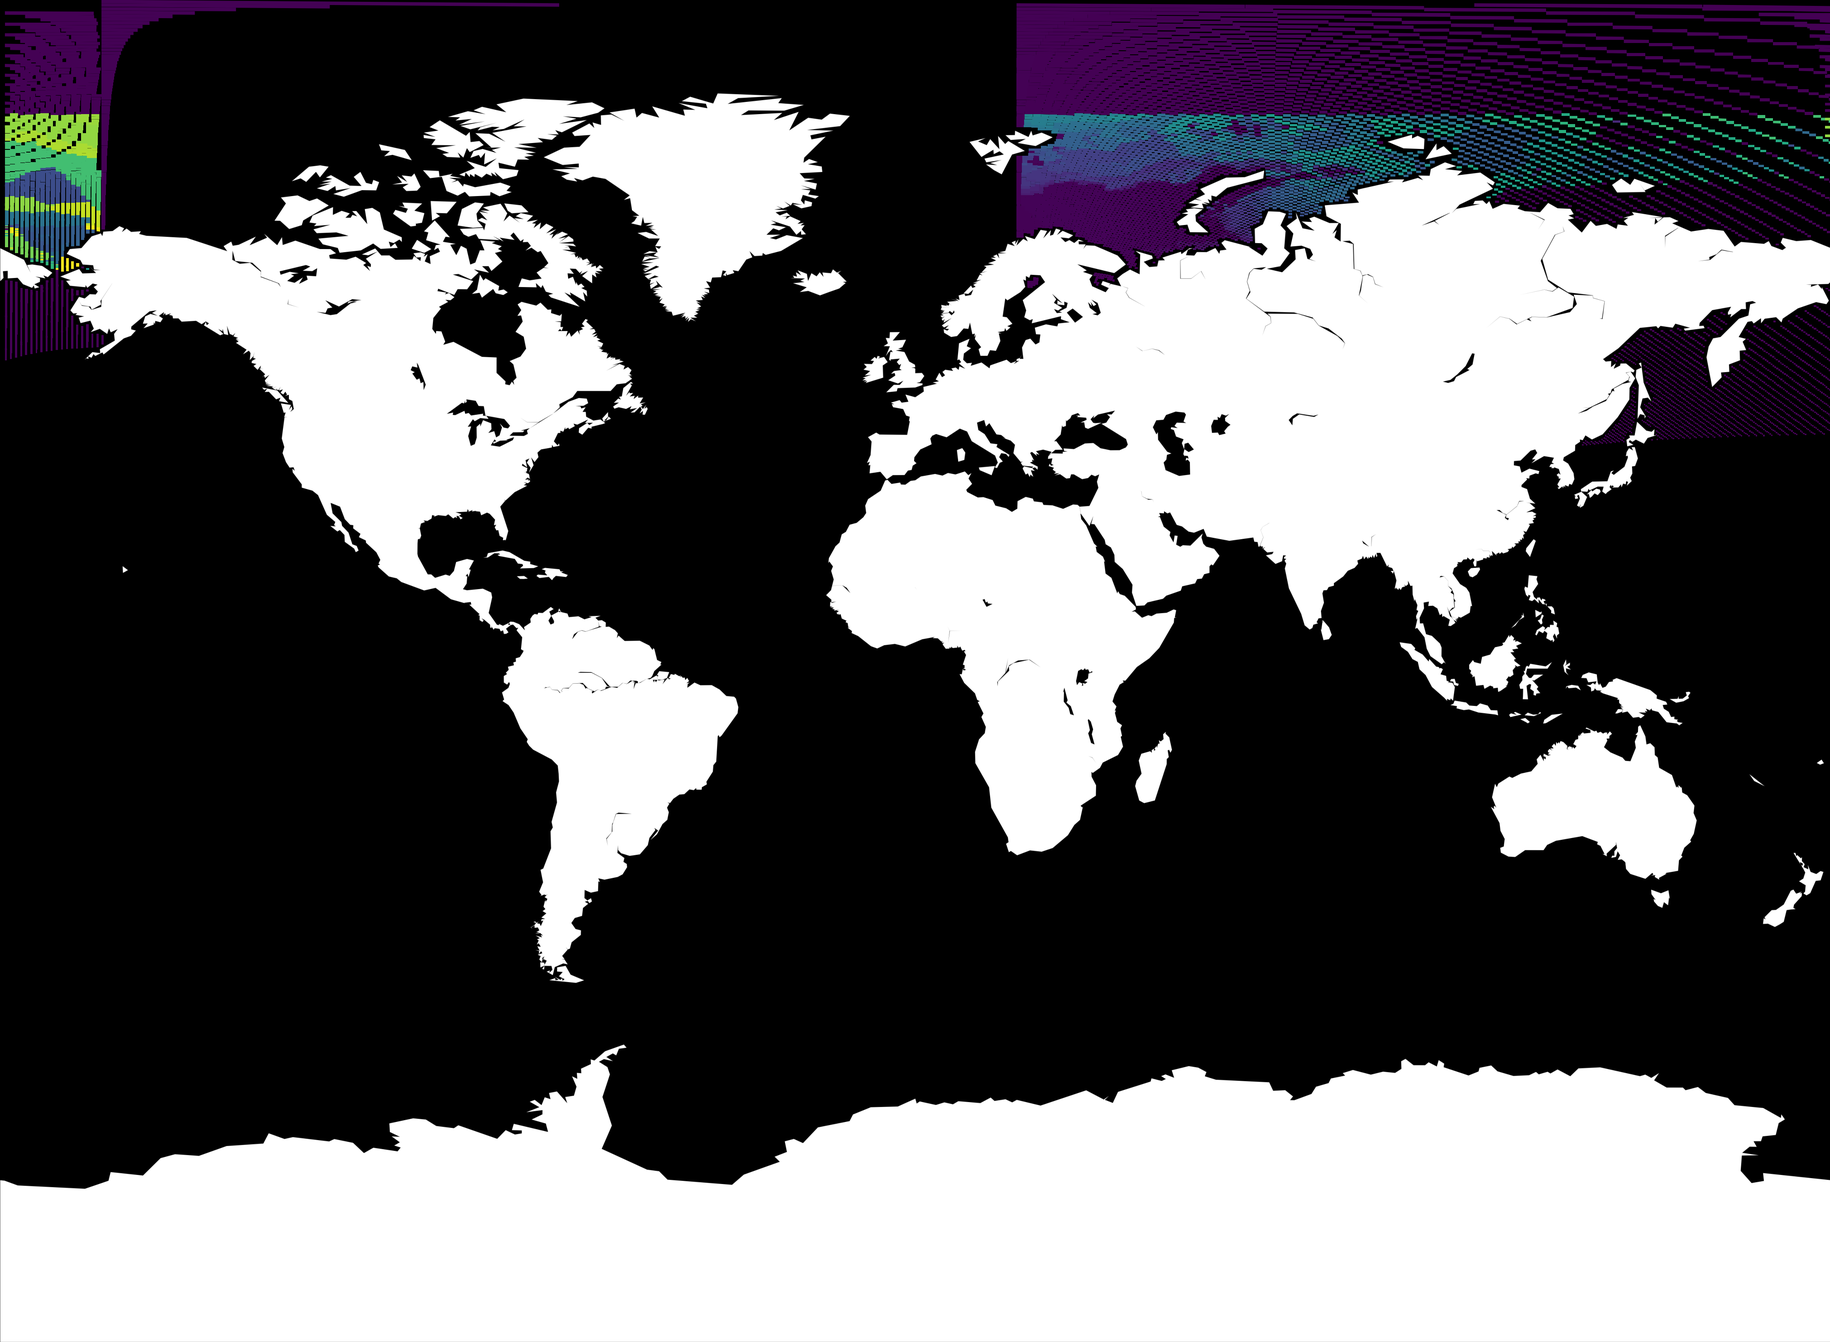
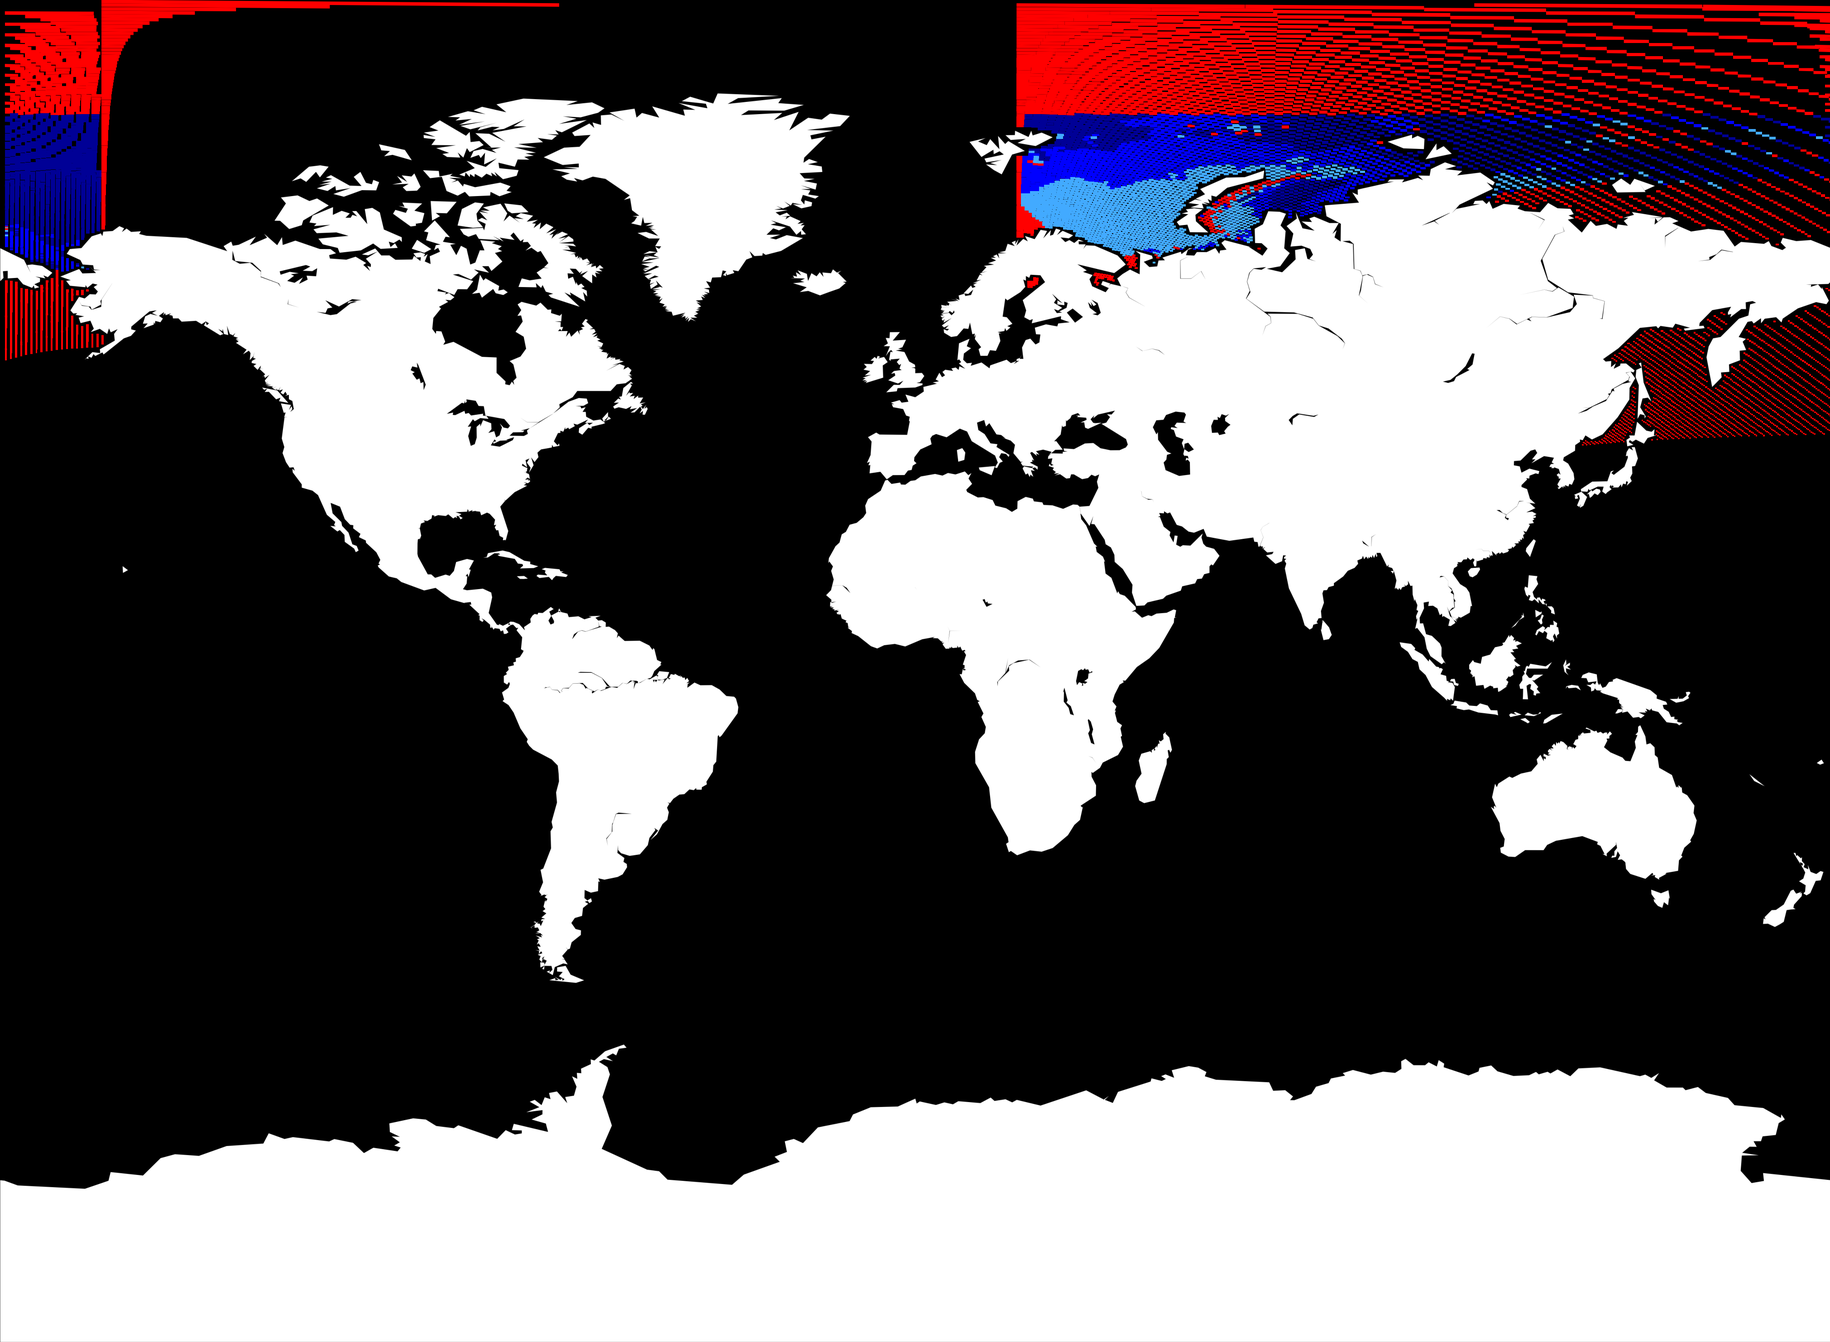
time function

Changed region(s): [[0.5299, 0.0, 1.0, 0.2173], [0.0, 0.0, 0.187, 0.2794], [0.8728, 0.2483, 1.0, 0.3414]]

diff --git a/path_map.html b/path_map.html
@@ -25,7 +25,7 @@
             <meta name="viewport" content="width=device-width,
                 initial-scale=1.0, maximum-scale=1.0, user-scalable=no" />
             <style>
-                #map_b551f9600163676150c063a4c02b4edb {
+                #map_69596ba5e96e551ad804e7a785b2b48c {
                     position: relative;
                     width: 100.0%;
                     height: 100.0%;
@@ -39,14 +39,14 @@
 <body>
     
     
-            <div class="folium-map" id="map_b551f9600163676150c063a4c02b4edb" ></div>
+            <div class="folium-map" id="map_69596ba5e96e551ad804e7a785b2b48c" ></div>
         
 </body>
 <script>
     
     
-            var map_b551f9600163676150c063a4c02b4edb = L.map(
-                "map_b551f9600163676150c063a4c02b4edb",
+            var map_69596ba5e96e551ad804e7a785b2b48c = L.map(
+                "map_69596ba5e96e551ad804e7a785b2b48c",
                 {
                     center: [25.0, 25.0],
                     crs: L.CRS.EPSG3857,
@@ -60,61 +60,61 @@
 
         
     
-            var tile_layer_a61ec7089220ae052e6c1bd06790464b = L.tileLayer(
+            var tile_layer_4994f5b70a4d8a4efcd916d006ec2b7c = L.tileLayer(
                 "https://tile.openstreetmap.org/{z}/{x}/{y}.png",
                 {"attribution": "\u0026copy; \u003ca href=\"https://www.openstreetmap.org/copyright\"\u003eOpenStreetMap\u003c/a\u003e contributors", "detectRetina": false, "maxNativeZoom": 19, "maxZoom": 19, "minZoom": 0, "noWrap": false, "opacity": 1, "subdomains": "abc", "tms": false}
             );
         
     
-            tile_layer_a61ec7089220ae052e6c1bd06790464b.addTo(map_b551f9600163676150c063a4c02b4edb);
+            tile_layer_4994f5b70a4d8a4efcd916d006ec2b7c.addTo(map_69596ba5e96e551ad804e7a785b2b48c);
         
     
-            var marker_5aa53e140cb297d79710b801ed8cce87 = L.marker(
+            var marker_d9f3e03465850cf355f59d4542504f69 = L.marker(
                 [67.64268, 42.20947],
                 {}
-            ).addTo(map_b551f9600163676150c063a4c02b4edb);
+            ).addTo(map_69596ba5e96e551ad804e7a785b2b48c);
         
     
-        var popup_6c4e75df1da38e236a86f1ce97f262da = L.popup({"maxWidth": "100%"});
+        var popup_cbfc15d2dff26e96a4e216100691ea71 = L.popup({"maxWidth": "100%"});
 
         
             
-                var html_cf3c0fe819b38d99dd31d766304b2f51 = $(`<div id="html_cf3c0fe819b38d99dd31d766304b2f51" style="width: 100.0%; height: 100.0%;">Start Point</div>`)[0];
-                popup_6c4e75df1da38e236a86f1ce97f262da.setContent(html_cf3c0fe819b38d99dd31d766304b2f51);
+                var html_ae148e956efe6db1ff88ccb4b06ac011 = $(`<div id="html_ae148e956efe6db1ff88ccb4b06ac011" style="width: 100.0%; height: 100.0%;">Start Point</div>`)[0];
+                popup_cbfc15d2dff26e96a4e216100691ea71.setContent(html_ae148e956efe6db1ff88ccb4b06ac011);
             
         
 
-        marker_5aa53e140cb297d79710b801ed8cce87.bindPopup(popup_6c4e75df1da38e236a86f1ce97f262da)
+        marker_d9f3e03465850cf355f59d4542504f69.bindPopup(popup_cbfc15d2dff26e96a4e216100691ea71)
         ;
 
         
     
     
-            var marker_129b367769a4e9577b43adc057b19f42 = L.marker(
-                [55.7, 164.25],
+            var marker_c48bfd13b034e6f0cf3dbb2945f3e126 = L.marker(
+                [72.1818, 73.91602],
                 {}
-            ).addTo(map_b551f9600163676150c063a4c02b4edb);
+            ).addTo(map_69596ba5e96e551ad804e7a785b2b48c);
         
     
-        var popup_a4b132c33f46e8df34c493145b116ad9 = L.popup({"maxWidth": "100%"});
+        var popup_a7095e36c855e569e0873f927a207c43 = L.popup({"maxWidth": "100%"});
 
         
             
-                var html_f5222e621d767c8dbda0d7d596dd27cc = $(`<div id="html_f5222e621d767c8dbda0d7d596dd27cc" style="width: 100.0%; height: 100.0%;">End Point</div>`)[0];
-                popup_a4b132c33f46e8df34c493145b116ad9.setContent(html_f5222e621d767c8dbda0d7d596dd27cc);
+                var html_86f9c0daa817414398c94c72f4f9feab = $(`<div id="html_86f9c0daa817414398c94c72f4f9feab" style="width: 100.0%; height: 100.0%;">End Point</div>`)[0];
+                popup_a7095e36c855e569e0873f927a207c43.setContent(html_86f9c0daa817414398c94c72f4f9feab);
             
         
 
-        marker_129b367769a4e9577b43adc057b19f42.bindPopup(popup_a4b132c33f46e8df34c493145b116ad9)
+        marker_c48bfd13b034e6f0cf3dbb2945f3e126.bindPopup(popup_a7095e36c855e569e0873f927a207c43)
         ;
 
         
     
     
-            var poly_line_fe6f57a6d1909e0807a49b302ad2a4e3 = L.polyline(
-                [[67.64268, 42.20947], [67.8365315588898, 42.5062670477896], [68.0303758665286, 42.80554914895031], [68.22421291114236, 43.10736171457893], [68.41804267997216, 43.41175137433954], [68.64217172520245, 43.41175137433954], [68.83598575644217, 43.721862895448695], [69.02979246465114, 44.03470719353999], [69.22359183247644, 44.35033645880899], [69.41738384132805, 44.66880435015287], [69.6111684713229, 44.99016605088872], [69.80494570122629, 45.3144783271373], [69.99871550839049, 45.641799589026704], [70.19247786869053, 45.972189954880754], [70.38623275645679, 46.30571131856867], [70.57998014440437, 46.642427420204534], [70.77372000355896, 46.982403920398475], [70.96745230317902, 47.32570847827581], [71.16117701067402, 47.672410833495846], [71.35489409151864, 48.022582892518955], [71.46594304265658, 48.63260923379521], [71.57698435220605, 49.2461813786388], [71.6880179534712, 49.86334291088444], [71.79904377843809, 50.48413820440977], [71.91006175774216, 51.10861244232227], [72.13410320272142, 51.10861244232227], [72.32778137893251, 51.47738325291566], [72.43876099123085, 52.12002775540032], [72.6324267476693, 52.49505883961503], [72.85645173046869, 52.49505883961503], [73.05010024423792, 52.879044905469144], [73.27411597858143, 52.879044905469144], [73.46774697479177, 53.27244525326014], [73.5786375610096, 53.95831654345625], [73.77225559218121, 53.55774196739699], [73.99625580963882, 53.55774196739699], [74.18985576752236, 53.968611270077645], [74.38344722210103, 54.38444244485187], [74.57703008875589, 54.80536152647054], [74.68782415862609, 55.53957345136659], [74.88139333990424, 55.96875903461706], [75.07495369418713, 55.534138718136205], [75.29892746617448, 55.534138718136205], [75.49246842462729, 55.980981798833994], [75.68600021517744, 56.43373526348655], [75.79668559112898, 57.223925626139064], [75.99020272459946, 57.686303124679476], [76.10085574354542, 58.49342863196582], [76.21149668995888, 59.306901575075656], [76.40499331020463, 59.78310339167378], [76.51560019619008, 60.61456490323183], [76.62619436287838, 61.452773290240216], [76.73677562716715, 62.29784137418461], [76.84734380120832, 63.14988478941857], [76.9578986922491, 64.00902207716035], [77.068440102466, 64.87537478343758], [77.17896782879207, 65.74906756117994], [77.2894816627366, 66.63022827667201], [77.39998139019718, 67.51898812059092], [77.51046679126348, 68.41548172386749], [77.62093764001253, 69.31984727862354], [77.73139370429492, 70.23222666445423], [77.84183474551148, 71.15276558034039], [77.95226051837989, 72.08161368249415], [78.06267077069074, 73.01892472846018], [78.17306524305245, 73.9648567278152], [78.28344366862429, 74.91957209983094], [78.39380577283711, 75.88323783848892], [78.39167616289355, 76.99579936363912], [78.3895469540422, 78.10815968844128], [78.38741814606246, 79.22031892508332], [78.38528973873386, 80.33227718564955], [78.38316173183617, 81.44403458212076], [78.38103412514934, 82.5555912263744], [78.37890691845354, 83.66694723018468], [78.37678011152914, 84.77810270522268], [78.37465370415671, 85.88905776305656], [78.37252769611703, 86.9998125151516], [78.37040208719107, 88.11036707287042], [78.36827687715999, 89.22072154747305], [78.36615206580517, 90.33087605011708], [78.36402765290819, 91.44083069185783], [78.36190363825084, 92.55058558364838], [78.35978002161507, 93.66014083633985], [78.35765680278307, 94.76949656068138], [78.35553398153722, 95.87865286732035], [78.35341155766008, 96.98760986680253], [78.35128953093444, 98.09636766957212], [78.34916790114326, 99.20492638597196], [78.2356325601921, 100.15581679760314], [78.0117108660318, 100.15581679760314], [77.89821799957356, 101.08057927509877], [77.89617797453508, 102.14824120105337], [77.89413830331429, 103.21572595681882], [78.0045567569576, 104.14856299218822], [78.00249812456063, 105.22554419548548], [78.00043985547248, 106.30234340529162], [77.9983819495062, 107.37896071661471], [77.88489070831847, 108.30272129577163], [77.77141315044602, 109.21804020548058], [77.6579490015688, 110.12507490416785], [77.54449799474197, 111.02397850096543], [77.43105987012666, 111.91489991495511], [77.31763437473278, 112.7979840271736], [77.20422126217348, 113.67337182577057], [77.09082029243062, 114.54120054468738], [76.97743123163058, 115.40160379620087], [76.86405385182982, 116.25471169765581], [76.75068793081, 117.1006509926896], [76.63733325188167, 117.93954516723468], [76.5239896036965, 118.7715145605665], [76.41065678006746, 119.59667647164952], [76.29733457979641, 120.41514526101857], [76.18402280650916, 121.22703244841891], [76.07072126849704, 122.03244680641556], [75.95742977856511, 122.83149445017033], [75.84414815388658, 123.62427892357346], [75.73087621586295, 124.41090128190665], [75.61761378998992, 125.19146017120377], [75.50436070572843, 125.96605190446674], [75.39111679638096, 126.73477053488517], [75.27788189897248, 127.49770792620028], [75.16465585413621, 128.25495382034575], [75.05143850600356, 129.00659590249163], [74.93822970209843, 129.75271986360966], [74.8250292932354, 130.4934094606732], [74.71183713342187, 131.22874657459818], [74.5986530797637, 131.95881126602615], [74.48547699237443, 132.68368182904555], [74.37230873428788, 133.40343484294195], [74.2591481713738, 134.1181452220635], [74.14599517225665, 134.82788626388376], [74.03284960823738, 135.53272969533927], [73.91971135321786, 136.23274571751622], [73.80658028362802, 136.928003048756], [73.69345627835563, 137.61856896624667], [73.58033921867849, 138.30450934616366], [73.3859749890815, 138.69602860536656], [73.19161159612635, 139.0831512923707], [72.99724890255155, 139.4659795041552], [72.802886774646, 139.8446118745306], [72.8014725908624, 140.60183279687493], [72.68840640725253, 139.9502158593465], [72.49404491147568, 139.5780559088676], [72.2996836506432, 139.20985144802205], [72.10532250261093, 138.8455150547695], [71.910961348163, 138.48496212542793], [72.02197134661284, 139.11319169488047], [71.82761015359007, 138.7542360447054], [72.02130070307575, 139.1169266358118], [71.7972566344651, 139.1169266358118], [55.7, 164.25]],
+            var poly_line_ff957fbdef81a654600fa1a7eb28bb94 = L.polyline(
+                [[67.64268, 42.20947], [67.75395311634243, 42.72173192974789], [67.86522023414955, 43.236436243990596], [67.97648131704926, 43.75360820174451], [68.17032038226742, 43.452503817991065], [68.36415217535043, 43.1488354295359], [68.58828267249143, 43.1488354295359], [68.81240715044434, 43.1488354295359], [68.92361528085988, 43.68809875026745], [69.03481699717567, 44.23009026593923], [69.14601225576372, 44.774839657797486], [69.25720101221702, 45.32237707992752], [69.36838322133231, 45.8727331693499], [69.47955883709243, 46.42593905638685], [69.59072781264825, 46.982026375307775], [69.70189010030008, 47.5410272752628], [69.8130456514785, 48.10297443151381], [69.92419441672484, 48.66790105697275], [70.03533634567094, 49.23584091405722], [70.14647138701845, 49.806828326873934], [70.25759948851757, 50.380898193741025], [70.36872059694514, 50.95808600006045], [70.47983465808218, 51.53842783155233], [70.59094161669073, 52.121960387863574], [70.70204141649009, 52.70872099656331], [70.81313400013237, 53.29874762753863], [70.61876996738883, 53.636111183139775], [70.50580365720927, 54.2171954542621], [70.50456686459647, 54.88813672670466], [70.50333015661394, 55.559037124295294], [70.50209353324556, 56.22989665512812], [70.50085699447521, 56.90071532729464], [70.4996205402868, 57.571493148883725], [70.6107262282402, 58.155597790330695], [70.72182474725099, 58.74293719822381], [70.83291603977862, 59.33354945837218], [70.94400004718561, 59.92747331639439], [71.05507670971153, 60.52474819303434], [71.16614596644627, 61.12541419992317], [71.27720775530243, 61.72951215580277], [71.38826201298703, 62.337083603227335], [71.49930867497224, 62.94817082575971], [71.61034767546536, 63.56281686568041], [71.60903093043568, 64.27250448927498], [71.72006229439813, 64.89071018303463], [71.71873709910034, 65.6045073000789], [71.71741200645442, 66.31825448049838], [71.71608701643807, 67.03195173553502], [71.82711086455629, 67.65367279942622], [72.02080143410478, 68.01635365775938], [72.21448419799326, 68.3828519340748], [72.43851863373881, 68.3828519340748], [72.63218440010782, 68.75787794940973], [72.85620938833122, 68.75787794940973], [72.6321844001078, 68.75787794940973], [72.1818, 73.91602]],
                 {"bubblingMouseEvents": true, "color": "blue", "dashArray": null, "dashOffset": null, "fill": false, "fillColor": "blue", "fillOpacity": 0.2, "fillRule": "evenodd", "lineCap": "round", "lineJoin": "round", "noClip": false, "opacity": 1.0, "smoothFactor": 1.0, "stroke": true, "weight": 5}
-            ).addTo(map_b551f9600163676150c063a4c02b4edb);
+            ).addTo(map_69596ba5e96e551ad804e7a785b2b48c);
         
 </script>
 </html>

diff --git a/icemap.py b/icemap.py
@@ -15,31 +15,42 @@ import numpy as np
 import pickle
 
 # Загрузка изображения карты
-image_path = r'resultMap\map_image.png'
+image_path = 'resultMap/map_image.png'
 map_img = Image.open(image_path)
-df = pd.read_excel('data\parse_data_with_polygon.xlsx')
+df = pd.read_excel('data/parse_data_with_polygon.xlsx')
 map = MapMask()
 img_width, img_height = map_img.size
 
 color_dict = {}
 color_reverse  = {}
-cmap = plt.cm.get_cmap('viridis', len(df['03-Mar-2020'].unique()))
+# cmap = plt.cm.get_cmap('viridis', len(df['03-Mar-2020'].unique()))
 
-for i, value in enumerate(df['03-Mar-2020'].unique()):
-    rgba = cmap(i)  # Получаем RGBA значение цвета
-    RGBA_1 = (int(rgba[0]*255), int(rgba[1]*255), int(rgba[2]*255), int(rgba[3]*255))
-    hex_color = '#{:02x}{:02x}{:02x}'.format(int(rgba[0]*255), int(rgba[1]*255), int(rgba[2]*255))
-    color_dict[RGBA_1] = value
-    color_reverse[value] = hex_color
+# for i, value in enumerate(df['03-Mar-2020'].unique()):
+#     rgba = cmap(i)  # Получаем RGBA значение цвета
+#     RGBA_1 = (int(rgba[0]*255), int(rgba[1]*255), int(rgba[2]*255), int(rgba[3]*255))
+#     hex_color = '#{:02x}{:02x}{:02x}'.format(int(rgba[0]*255), int(rgba[1]*255), int(rgba[2]*255))
+#     color_dict[RGBA_1] = value
+#     color_reverse[value] = hex_color
 
 with open('data\color_dict.pkl', 'wb') as f:
     pickle.dump(color_dict, f)
 
+def get_color(index):
+    if index <= 0:
+        return "red"
+    elif 22 > index >= 21:
+        return "#42AAFF"
+    elif 21 > index >= 15:
+        return "#0000FF"
+    else:
+        return "#000096"
 def draw_poly(row):
     coords_lat_lon = ast.literal_eval(row['Polygon'])
+    color = get_color(row["03-Mar-2020"])
     pixel_coords = [map.decoder(coord[0], coord[1]) for coord in coords_lat_lon]
-    polygon = plt.Polygon(pixel_coords, facecolor=color_reverse[row['03-Mar-2020']], linewidth=0)
+    polygon = plt.Polygon(pixel_coords, facecolor=color, linewidth=0)
     ax.add_patch(polygon)
+
 # Создание фигуры и осей
 fig, ax = plt.subplots()
 
@@ -53,6 +64,6 @@ ax.set_ylim(0, img_height)
 plt.gca().invert_yaxis() 
 ax.axis('off')
 fig.set_size_inches(5250 / 900, 3850 / 900)
-plt.savefig('resultMap\map_ice.png', dpi=900, bbox_inches='tight', pad_inches=0 )
+plt.savefig('resultMap/map_ice.png', dpi=900, bbox_inches='tight', pad_inches=0)
 plt.show()
 

diff --git a/search/generateSteps.py b/search/generateSteps.py
@@ -1,4 +1,32 @@
 from geopy.distance import geodesic
+import numpy as np
+from mapmask import MapMask
+
+def calculate_error(latitude1, longitude1, latitude2, longitude2, current_error, mapMask, distance_km):
+    x1, y1 = mapMask.decoder(latitude1, longitude1)
+    x2, y2 = mapMask.decoder(latitude2, longitude2)
+
+    x_coords = np.linspace(x1, x2, 10)
+    y_coords = np.linspace(y1, y2, 10)
+    km = distance_km / 10
+    speed_kmh = 22 * 1.852
+    time_seconds = 0
+    for x, y in zip(x_coords, y_coords):
+        x = int(round(x))
+        y = int(round(y))
+        index = mapMask.get_ice_index(x, y)
+        time_hours = None
+        if index == 1000:
+            return -1
+        elif index == 3:
+            time_hours = distance_km / (14 * 1.852)
+        elif index == 2:
+            time_hours = distance_km / (19 * 1.852)
+        elif index <= 1:
+            time_hours = distance_km / speed_kmh
+        time_seconds += time_hours * 3600
+
+    return time_seconds
 
 
 def generate_points(point, distance_km, step_degrees, mapMask):
@@ -7,6 +35,13 @@ def generate_points(point, distance_km, step_degrees, mapMask):
     for angle in range(0, 360, step_degrees):
         destination = geodesic(kilometers=distance_km).destination(point, angle)
         if mapMask.is_aqua(destination.latitude, destination.longitude):
-            points.append((destination.latitude, destination.longitude))
+            error = (calculate_error(point[0], point[1], destination.latitude, destination.longitude, 10, mapMask,
+                                     distance_km))
+            if error != -1:
+                points.append((destination.latitude, destination.longitude, error))
 
     return points
+
+map = MapMask('../resultMap/map_ice.png')
+res = generate_points((76.47577, 69.78516),25, 5, map)
+print(res)

diff --git a/search/mapmask.py b/search/mapmask.py
@@ -7,7 +7,7 @@ from mpl_toolkits.basemap import Basemap
 
 class MapMask:
 
-    def __init__(self, image_path = r'resultMap\map_image.png'):
+    def __init__(self, image_path = r'resultMap/map_ice.png'):
         self.map = Basemap(projection='mill', llcrnrlat=-90, urcrnrlat=90, llcrnrlon=-180, urcrnrlon=180)
         self.image = Image.open(image_path)
         self.map_width, self.map_height = self.image.size
@@ -18,6 +18,19 @@ class MapMask:
         x = int((x - self.map.xmin) / (self.map.xmax - self.map.xmin) * self.map_width)
         y = int((self.map.ymax - y) / (self.map.ymax - self.map.ymin) * self.map_height)
         return x,y
+
+    def get_ice_index(self, x, y):
+        pixel_color = self.image.getpixel((x, y))
+        if pixel_color == (255, 255, 255, 255) and pixel_color == (255, 0, 0, 255):
+            return 1000
+        elif pixel_color == (0, 0, 150, 255):
+            return 3
+        elif pixel_color == (0, 0, 255, 255):
+            return 2
+        elif pixel_color == (66, 170, 255, 255):
+            return 1
+        else:
+            return 0
 
     def is_aqua(self, lat, lon):
         # self.plot_point(lat, lon)

diff --git a/pathInfo.py b/pathInfo.py
@@ -1,0 +1,10 @@
+
+class PathInfo:
+
+    def __init__(self, latitude1, longitude1, latitude2, longitude2, current_error):
+        self.latitude = latitude
+        self.longitude = longitude
+        self.ice_index = ice_index
+        # self.previous_error = previous_error
+        self.current_error = current_error
+
